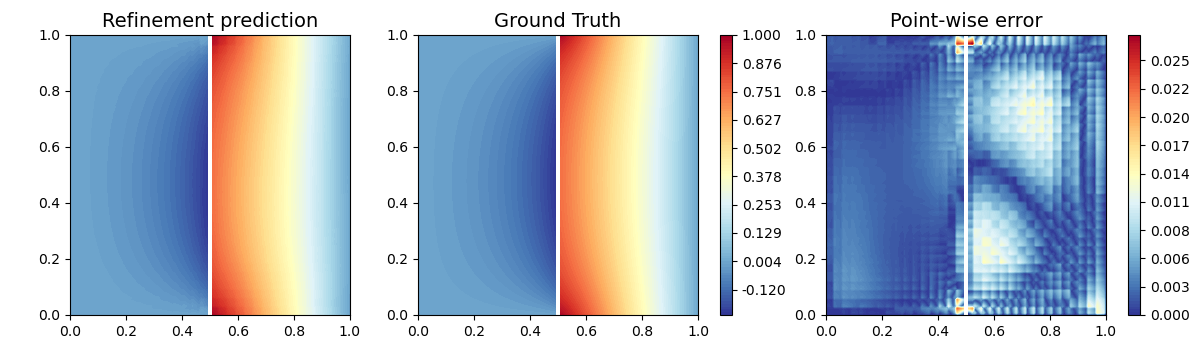
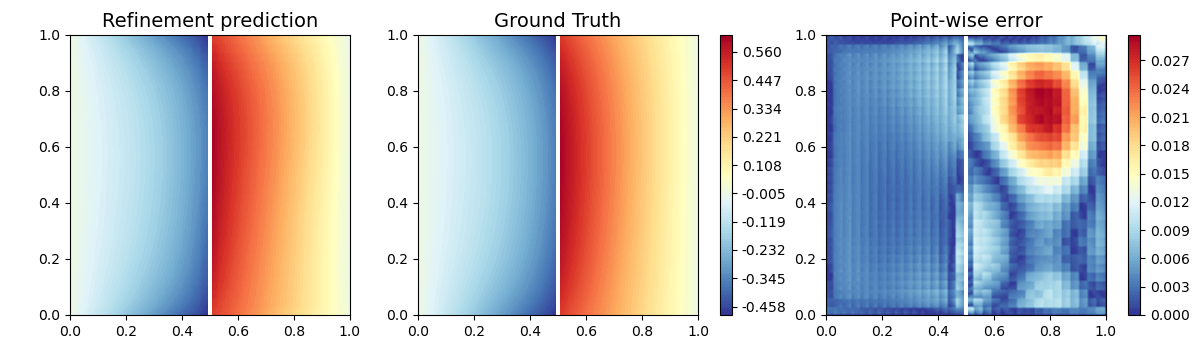
retrain our tfponet

diff --git a/DeepONet-type/2d-smooth/train.py b/DeepONet-type/2d-smooth/train.py
@@ -48,9 +48,9 @@ def c(x,y):
 
 def b(x,y):
     if x >= 1/2:
-        a = 2*(1-x)
+        a = 1-x
     else:
-        a = 0
+        a = -x
     return a
 
 N = 32
